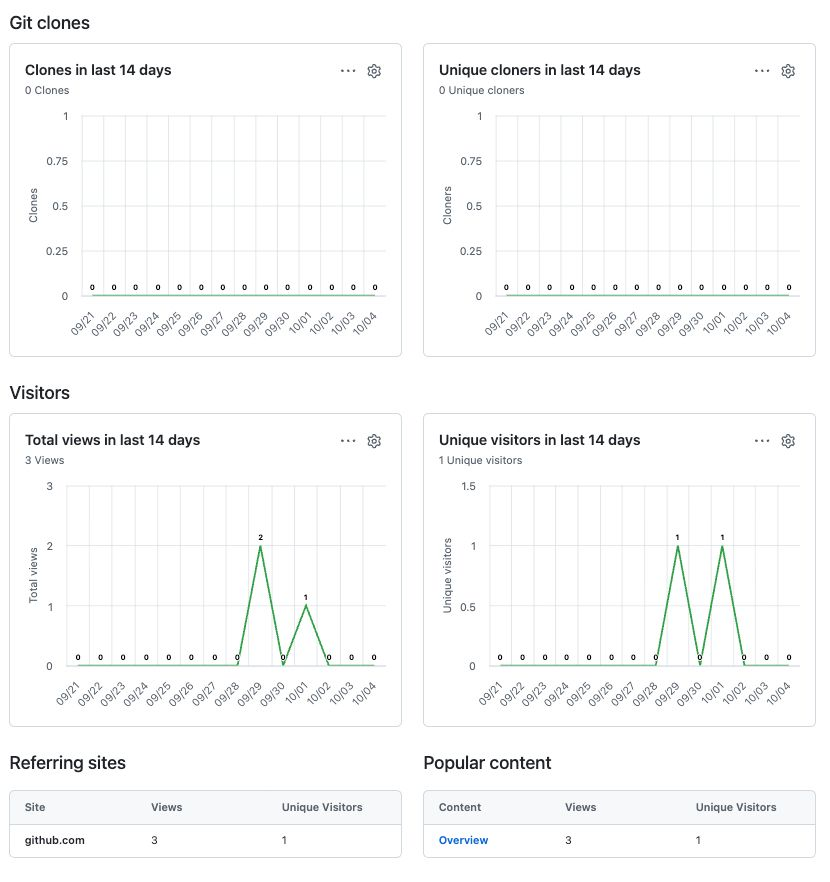
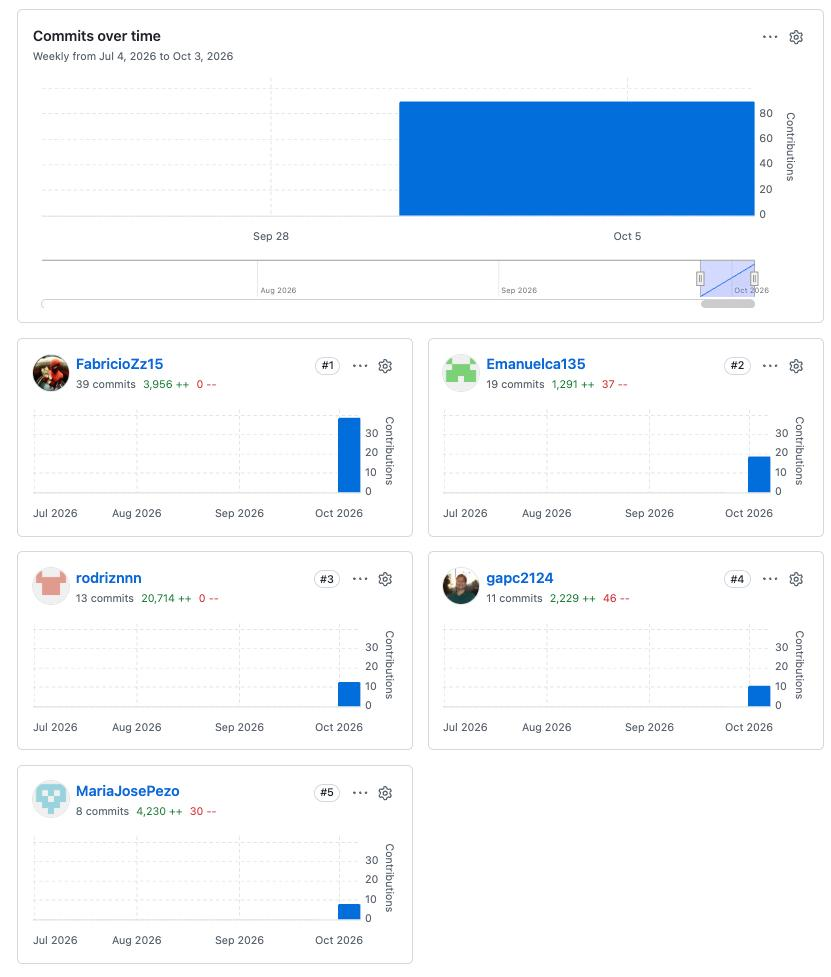
doc: add sprint 2 user story execution evidence and remove empty swagger table

diff --git a/report/52-landing-page-services-applications-implementation.md b/report/52-landing-page-services-applications-implementation.md
@@ -183,10 +183,9 @@ En esta sección se presentan las evidencias de ejecución de las funcionalidade
 
 | Evidence | Description | Related User Story | Status |
 | :--- | :--- | :--- | :--- |
-| | | | |
-| | | | |
-| | | | |
-| | | | |
+| UI Component | Landing Page: Propuesta para Transportistas | US04 | Finalizado |
+| UI Component | Landing Page: Propuesta para Emprendedores | US05 | Finalizado |
+| UI Component | Landing Page: Testimonios de Éxito | US25 | Finalizado |
 
 <div align="center">
   <img src="../assets/images/chapter5/evidencia-sprint2.jpeg" alt="Evidencia de ejecución Sprint 2 - Vista 1" width="800">
@@ -201,10 +200,6 @@ En esta sección se presentan las evidencias de ejecución de las funcionalidade
 #### 5.2.2.6. Services Documentation Evidence for Sprint Review
 
 Dado que el objetivo principal del Sprint 2 se enfocó en el diseño, desarrollo y despliegue del **Frontend Web Application**, la implementación de la API REST y su documentación (Swagger/OpenAPI) se encuentra programada para los siguientes Sprints de integración.
-
-| Endpoint / Service | Method | Description | Documentation Evidence |
-| :--- | :---: | :--- | :--- |
-| N/A (Frontend Focus) | N/A | N/A | N/A |
 
 <div align="center">
   <!-- Evidencias de Swagger se agregarán en el Sprint 3 -->
